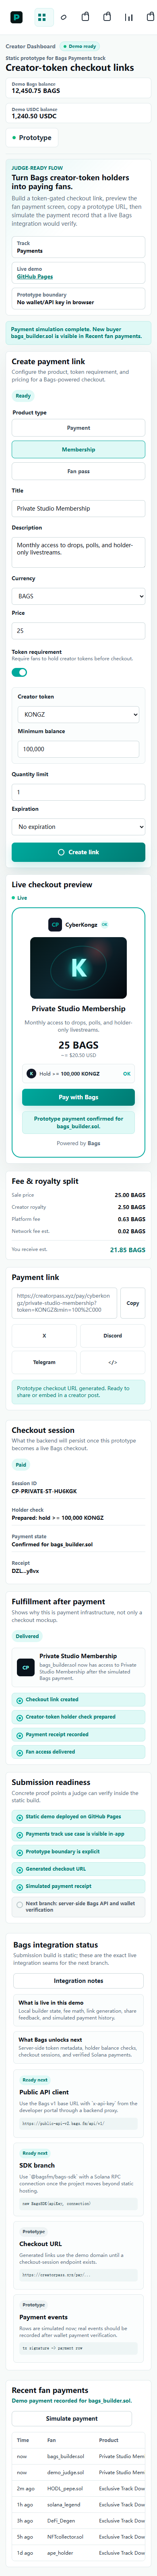
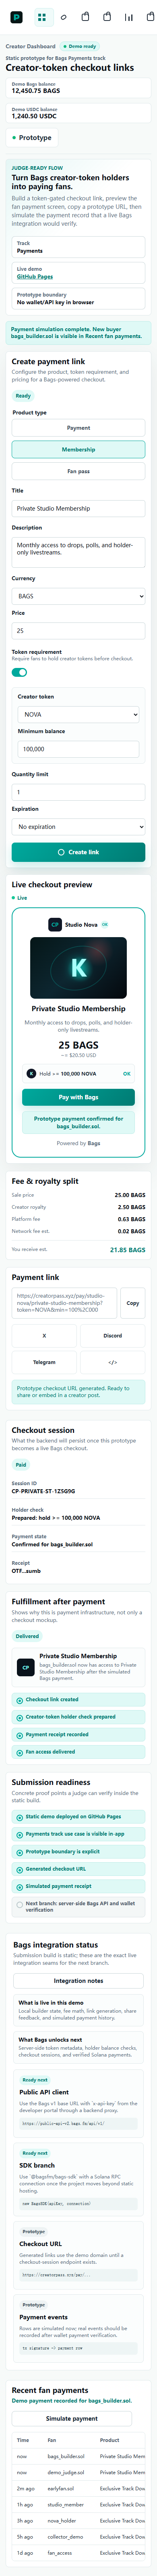
Reduce submission ambiguity before recording
The demo previously used real-project-looking sample names, which could make judges confuse seeded data with a claimed live Bags integration. This pass switches to a fictional Studio Nova/NOVA demo creator, updates recording materials, and adds a 60-second judge QA guide.

Constraint: Keep the app static and honest about seeded data

Rejected: Keep CyberKongz/KONGZ as sample data | avoid brand confusion and implied affiliation

Confidence: high

Scope-risk: narrow

Directive: Use fictional demo brands until a real Bags project/token is launched and linked

Tested: node --check app.js; no CyberKongz/KONGZ residue in app/docs; desktop Playwright flow at 1440px; mobile Playwright flow at 390px

Not-tested: DoraHacks form upload, demo video hosting, real Bags project launch

diff --git a/app.js b/app.js
@@ -5,7 +5,7 @@ const state = {
   currency: "BAGS",
   price: 15,
   tokenGate: true,
-  token: "KONGZ",
+  token: "NOVA",
   minimum: "100,000",
   linkCreated: false,
   generatedUrl: "",
@@ -15,11 +15,11 @@ const state = {
 };
 
 const payments = [
-  ["2m ago", "HODL_pepe.sol", "Exclusive Track Download", "100,000 KONGZ", "15.00 BAGS", "13.10 BAGS", "5Xy...9a7B"],
-  ["1h ago", "solana_legend", "Exclusive Track Download", "150,000 KONGZ", "15.00 BAGS", "13.10 BAGS", "3Gk...8f2D"],
-  ["3h ago", "DeFi_Degen", "Exclusive Track Download", "250,000 KONGZ", "15.00 BAGS", "13.10 BAGS", "2mN...c4e9"],
-  ["5h ago", "NFTcollector.sol", "Exclusive Track Download", "110,000 KONGZ", "15.00 BAGS", "13.10 BAGS", "7Lp...d1A3"],
-  ["1d ago", "ape_holder", "Exclusive Track Download", "100,500 KONGZ", "15.00 BAGS", "13.10 BAGS", "9Qz...b7E1"],
+  ["2m ago", "earlyfan.sol", "Exclusive Track Download", "100,000 NOVA", "15.00 BAGS", "13.10 BAGS", "5Xy...9a7B"],
+  ["1h ago", "studio_member", "Exclusive Track Download", "150,000 NOVA", "15.00 BAGS", "13.10 BAGS", "3Gk...8f2D"],
+  ["3h ago", "nova_holder", "Exclusive Track Download", "250,000 NOVA", "15.00 BAGS", "13.10 BAGS", "2mN...c4e9"],
+  ["5h ago", "collector_demo", "Exclusive Track Download", "110,000 NOVA", "15.00 BAGS", "13.10 BAGS", "7Lp...d1A3"],
+  ["1d ago", "fan_access", "Exclusive Track Download", "100,500 NOVA", "15.00 BAGS", "13.10 BAGS", "9Qz...b7E1"],
 ];
 
 const $ = (selector) => document.querySelector(selector);
@@ -213,7 +213,7 @@ function createLink(event) {
   event.preventDefault();
   syncFromInputs();
   const slug = slugify(state.title || "creator-product");
-  state.generatedUrl = `https://creatorpass.xyz/pay/cyberkongz/${slug}?token=${state.token}&min=${encodeURIComponent(state.minimum)}`;
+  state.generatedUrl = `https://creatorpass.xyz/pay/studio-nova/${slug}?token=${state.token}&min=${encodeURIComponent(state.minimum)}`;
   state.linkCreated = true;
   state.sessionId = createSessionId(slug);
   state.lastBuyer = "";

diff --git a/index.html b/index.html
@@ -54,15 +54,15 @@
           <div class="creator-head">
             <div class="avatar avatar-token" aria-hidden="true">CP</div>
             <div>
-              <h2 id="creator-card-title">CyberKongz</h2>
-              <p>@cyberkongz</p>
+              <h2 id="creator-card-title">Studio Nova</h2>
+              <p>@studionova.demo</p>
             </div>
             <span class="verified" aria-label="Verified creator">OK</span>
           </div>
           <dl class="creator-stats">
             <div>
               <dt>Creator token</dt>
-              <dd>KONGZ</dd>
+              <dd>NOVA</dd>
             </div>
             <div>
               <dt>Total supply</dt>
@@ -77,7 +77,7 @@
               <dd>0.842 BAGS</dd>
             </div>
           </dl>
-          <a class="secondary-action" href="https://bags.fm/" target="_blank" rel="noreferrer">View on Bags</a>
+          <a class="secondary-action" href="https://bags.fm/" target="_blank" rel="noreferrer">Open Bags</a>
         </section>
       </aside>
 
@@ -202,7 +202,7 @@
               <label class="field">
                 <span>Creator token</span>
                 <select id="token-input" name="token">
-                  <option value="KONGZ">KONGZ</option>
+                  <option value="NOVA">NOVA</option>
                   <option value="BAGS">BAGS</option>
                   <option value="CRE8R">CRE8R</option>
                 </select>
@@ -244,7 +244,7 @@
               <div class="checkout-phone">
                 <div class="merchant-row">
                   <div class="mini-logo" aria-hidden="true">CP</div>
-                  <strong>CyberKongz</strong>
+                  <strong>Studio Nova</strong>
                   <span class="verified">OK</span>
                 </div>
                 <div class="product-art" aria-hidden="true">
@@ -259,7 +259,7 @@
                 </div>
                 <div class="requirement-pill" id="preview-requirement">
                   <span class="avatar small" aria-hidden="true">K</span>
-                  <span>Hold &gt;= <b id="preview-minimum">100,000 KONGZ</b></span>
+                  <span>Hold &gt;= <b id="preview-minimum">100,000 NOVA</b></span>
                   <i aria-hidden="true">OK</i>
                 </div>
                 <button class="pay-button" id="pay-with-bags" type="button">Pay with Bags</button>

diff --git a/docs/judge-qa.md b/docs/judge-qa.md
@@ -1,0 +1,35 @@
+# Judge QA Guide
+
+Use this when reviewing or recording CreatorPass.
+
+## 60-Second Flow
+
+1. Open <https://ming7177.github.io/creatorpass/>.
+2. Confirm the top status says `Prototype` and the page states that no wallet/API key is in the browser.
+3. Select `Membership`.
+4. Click `Create link`.
+5. Confirm these states update:
+   - Builder status becomes `Ready`.
+   - A `creatorpass.xyz/pay/studio-nova/...` prototype URL appears.
+   - `Checkout session` shows a session ID and holder check.
+   - `Submission readiness` marks generated checkout URL as complete.
+6. Click `Pay with Bags`.
+7. Confirm these states update:
+   - Checkout preview shows a prototype payment confirmation.
+   - Checkout session shows a receipt.
+   - Fulfillment becomes `Delivered`.
+   - Recent fan payments receives a new row.
+
+## Expected Boundaries
+
+- This is a static prototype.
+- Studio Nova and NOVA are seeded demo values.
+- No wallet connection or live Bags API call is performed in the browser.
+- The next branch should add a server-side Bags API proxy, wallet connection, holder verification, and Solana payment verification.
+
+## Pass Criteria
+
+- No page-level horizontal overflow on desktop or mobile.
+- Mobile payments table may scroll horizontally inside its own table container.
+- All primary controls provide visible feedback.
+- The demo is honest about prototype limitations.

diff --git a/docs/recording-shot-list.md b/docs/recording-shot-list.md
@@ -18,7 +18,7 @@ Actions:
 
 1. Click `Membership`.
 2. Keep token requirement enabled.
-3. Show `100,000 KONGZ` as the holder gate.
+3. Show `100,000 NOVA` as the holder gate.
 4. Explain that this is where Bags holder verification plugs in.
 
 ## Scene 3 - Generate And Share
@@ -34,7 +34,20 @@ Narration:
 
 The prototype URL is generated instantly. In production, this route becomes a checkout session that verifies wallet ownership and payment.
 
-## Scene 4 - Simulate Payment
+## Scene 4 - Checkout Session And Fulfillment
+
+Actions:
+
+1. Show the checkout session ID.
+2. Show holder check and payment state.
+3. Click `Pay with Bags`.
+4. Show receipt and fulfillment state.
+
+Narration:
+
+CreatorPass shows the whole payment loop: a checkout session is created, payment is recorded, and fan access is delivered. This is where the next live Bags API and wallet integration plugs in.
+
+## Scene 5 - Simulate Payment
 
 Actions:
 
@@ -46,7 +59,7 @@ Narration:
 
 The table is simulated in this static build, but it represents the final event stream after Solana payment verification.
 
-## Scene 5 - Bags Integration Status
+## Scene 6 - Bags Integration Status
 
 Scroll to `Bags integration status`.
 
@@ -54,7 +67,7 @@ Narration:
 
 The next branch uses the Bags Public API via a backend proxy with `x-api-key`, plus `@bagsfm/bags-sdk` once the app has a backend runtime and Solana RPC connection. API keys are intentionally not stored in browser code.
 
-## Scene 6 - Closing
+## Scene 7 - Closing
 
 Closing line:
 

diff --git a/docs/demo-script.md b/docs/demo-script.md
@@ -8,25 +8,25 @@ Creators on Bags can launch creator tokens, but turning that token ownership int
 
 ## 0:30-1:20 - Product Setup
 
-Open CreatorPass and show the CyberKongz dashboard context. Explain that the left side is the creator workspace, the center panel creates a product checkout, and the right side previews what a fan sees before paying.
+Open CreatorPass and show the Studio Nova demo creator context. Explain that the left side is the creator workspace, the center panel creates a product checkout, and the right side previews what a fan sees before paying. Mention that Studio Nova and NOVA are seeded demo data, not a claimed live Bags project.
 
 Select `Membership`. The title, description, and price update immediately. Point out that the checkout preview and fee split stay synchronized with creator inputs.
 
 ## 1:20-2:10 - Token-Gated Checkout
 
-Show the token requirement section. Keep the creator token as `KONGZ` and the minimum balance as `100,000`. Explain that this is the future Bags SDK/API integration point: the checkout should verify holder balance before allowing the payment.
+Show the token requirement section. Keep the creator token as `NOVA` and the minimum balance as `100,000`. Explain that this is the future Bags SDK/API integration point: the checkout should verify holder balance before allowing the payment.
 
-Click `Create link`. Show that the builder moves from `Draft` to `Ready`, a prototype checkout URL appears, and the payment table receives a judge-facing sample event.
+Click `Create link`. Show that the builder moves from `Draft` to `Ready`, a prototype checkout URL appears, and the checkout session panel receives a session ID plus holder-check state.
 
 ## 2:10-3:00 - Sharing and Payment Feedback
 
 Click `Copy`, then click `Discord` or `Telegram`. Explain that CreatorPass is designed for creator distribution channels where fans already gather.
 
-Click `Simulate payment`. Show the new payment row and the confirmation state above the table. Explain that the real version will replace this simulation with wallet connection, Solana transaction verification, and Bags token-holder checks.
+Click `Pay with Bags` in the preview or `Simulate payment` above the table. Show the new payment row, receipt, fulfillment state, and submission readiness checklist. Explain that the real version will replace this simulation with wallet connection, Solana transaction verification, and Bags token-holder checks.
 
 ## 3:00-4:00 - Why It Matters
 
-CreatorPass is not just analytics. It gives Bags creators a direct monetization primitive: payment links, fan passes, memberships, and holder-gated drops. The product can increase transaction volume for the Bags ecosystem while helping creators sell to their strongest token-holding fans.
+CreatorPass is not just analytics. It gives Bags creators a direct monetization primitive: payment links, fan passes, memberships, holder-gated drops, checkout sessions, and post-payment fulfillment. The product can increase transaction volume for the Bags ecosystem while helping creators sell to their strongest token-holding fans.
 
 ## 4:00-5:00 - Roadmap
 

diff --git a/docs/final-upload-checklist.md b/docs/final-upload-checklist.md
@@ -6,10 +6,10 @@ This is the shortest path from current repo to DoraHacks upload.
 
 - [x] Public website URL: `https://ming7177.github.io/creatorpass/`
 - [x] GitHub repository URL: `https://github.com/Ming7177/creatorpass`
-- [ ] 3-5 minute demo video URL
+- [ ] 3-5 minute demo video URL, recorded from the current GitHub Pages build
 - [ ] App icon uploaded from `assets/app-icon.svg`
-- [ ] X/Twitter contact
-- [ ] Bags project/token launched or linked
+- [ ] X/Twitter contact for the submitter
+- [ ] Bags project/token launched or linked, or clearly marked as pending live integration
 - [ ] DoraHacks track set to `Payments`
 
 ## Current Repo Is Ready For
@@ -24,10 +24,10 @@ This is the shortest path from current repo to DoraHacks upload.
 ## Upload Order
 
 1. Push this repo to GitHub.
-2. Deploy the repository root to Vercel or Netlify.
+2. Use GitHub Pages as the deployed URL: `https://ming7177.github.io/creatorpass/`.
 3. Open the deployed URL and run the demo flow once.
 4. Record the 3-5 minute video using `docs/demo-script.md`.
-5. Launch or link the project/token on Bags.
+5. Launch or link the project/token on Bags if possible; otherwise disclose it as the next live integration step.
 6. Paste `SUBMISSION.md` content into DoraHacks.
 7. Add website, GitHub, video, X/Twitter, and Bags URLs.
 

diff --git a/docs/submission-plan.md b/docs/submission-plan.md
@@ -14,12 +14,12 @@ CreatorPass turns Bags creator tokens into checkout infrastructure. A creator ca
 
 ## Judge-Facing Demo Flow
 
-1. Open the dashboard and show CyberKongz creator context.
+1. Open the dashboard and show the Studio Nova demo creator context.
 2. Choose product type: Payment, Membership, or Fan Pass.
 3. Set title, description, currency, price, and token requirement.
 4. Watch the checkout preview update live.
 5. Click `Create link`.
-6. Show generated link, share state, and simulated payment row.
+6. Show generated link, checkout session, fulfillment state, share state, and simulated payment row.
 7. Explain the planned Bags SDK connection and token launch requirement.
 
 ## Differentiation
@@ -57,4 +57,3 @@ CreatorPass turns Bags creator tokens into checkout infrastructure. A creator ca
 - Record 3-5 minute demo video.
 - Launch project/token on Bags.
 - Fill DoraHacks BUIDL metadata.
-

diff --git a/SUBMISSION.md b/SUBMISSION.md
@@ -28,6 +28,8 @@ CreatorPass is checkout infrastructure for the Bags creator-token economy. A cre
 
 The current build is a polished static demo for judge review. It demonstrates the full product flow: product setup, token-gated access, live checkout preview, fee and royalty split calculation, checkout session state, fulfillment after payment, copy/share states, Bags integration status, and simulated fan payment history.
 
+The demo uses a fictional Studio Nova creator and NOVA token so reviewers do not confuse seeded data with a claimed live Bags project.
+
 The next live integration branch will connect Bags Public API or `@bagsfm/bags-sdk`, keep the API key server-side, verify creator-token holder requirements, and record real Solana payment transactions.
 
 The app also includes a judge-ready summary directly in the UI, so reviewers can see the Payments track fit, live demo scope, and prototype boundary before interacting with the flow.
@@ -79,6 +81,6 @@ CreatorPass packages that workflow into a dashboard:
 ## Honest Limitations
 
 - This submission build does not connect a wallet or verify on-chain payments.
-- Current creator/token stats are seeded demo data.
+- Current creator/token stats are seeded demo data for Studio Nova / NOVA.
 - Prototype checkout URLs use `https://creatorpass.xyz/pay/...`.
 - Bags API key must be kept server-side in the next branch.

diff --git a/docs/dorahacks-submission.md b/docs/dorahacks-submission.md
@@ -26,6 +26,8 @@ CreatorPass is a payment-link dashboard for the Bags creator-token economy. A cr
 
 The current demo is a polished static prototype for judge review. It demonstrates the key product workflow: product setup, token-gated access, live checkout preview, fee and royalty split calculation, checkout session state, fulfillment after payment, share states, Pay with Bags prototype feedback, and simulated fan payment history. The planned Bags integration will replace seeded demo data with Bags API or `@bagsfm/bags-sdk` responses, add wallet connection, verify token-holder requirements, and record real Solana payment transactions.
 
+The demo uses a fictional Studio Nova creator and NOVA token so reviewers do not confuse seeded data with a claimed live Bags project.
+
 ## Problem
 
 Creator-token ownership is powerful, but creators still need a simple way to convert token holders into paying fans. Without checkout infrastructure, each creator has to assemble holder checks, payment links, digital product delivery, and payment records from scratch.
@@ -65,7 +67,7 @@ CreatorPass packages that workflow into a simple dashboard:
 ## Limitations
 
 - This build does not perform real wallet connection or on-chain transaction verification.
-- Creator/token data is seeded demo data.
+- Creator/token data is seeded demo data for Studio Nova / NOVA.
 - Bags SDK/API integration is planned but not included in this static polish pass.
 
 ## Next Steps

diff --git a/README.md b/README.md
@@ -90,3 +90,4 @@ The page now includes a `Bags integration status` section that separates live in
 - Bags integration notes: `docs/bags-integration.md`
 - Deployment notes: `docs/deployment.md`
 - Product hardening plan: `docs/product-hardening-plan.md`
+- Judge QA guide: `docs/judge-qa.md`